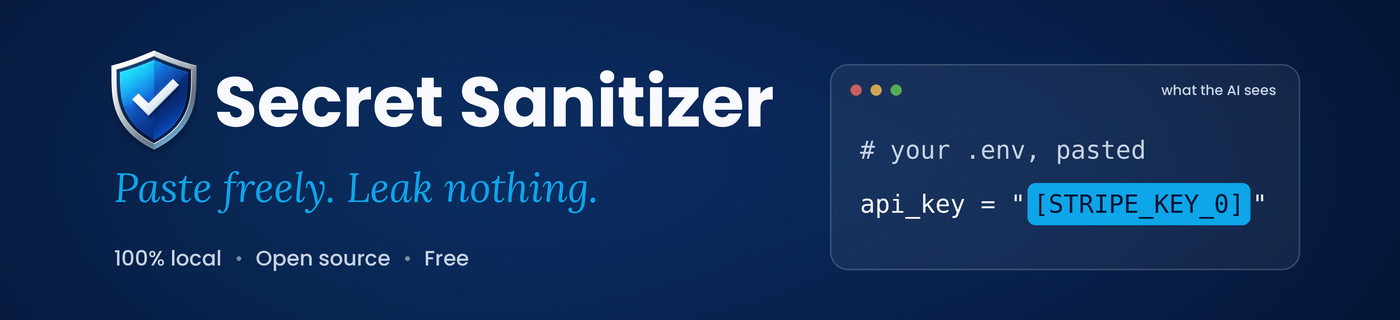
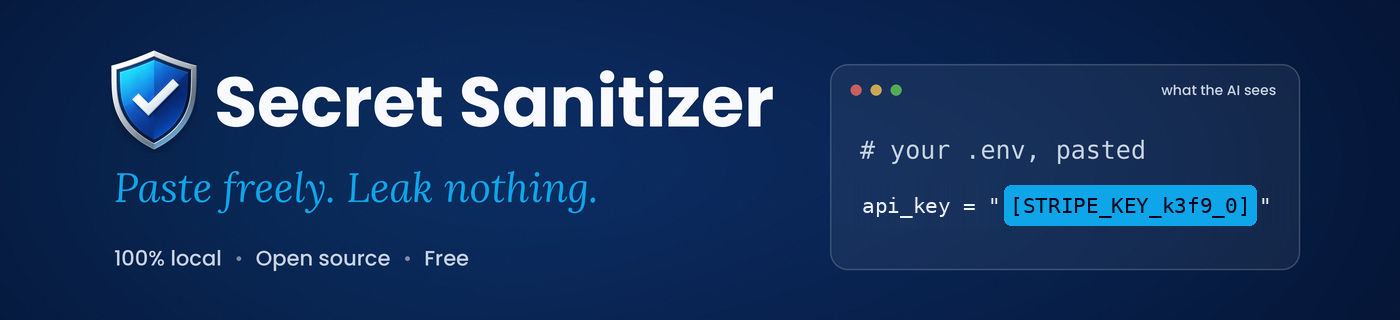
Improved readme and the website

Changed region(s): [[0.6143, 0.5625, 0.9214, 0.7188]]

diff --git a/website/index.html b/website/index.html
@@ -738,7 +738,7 @@
     <!-- ======================== CTA ======================== -->
     <section class="cta">
       <div class="container fade-up">
-        <div class="cta-code" aria-hidden="true">api_key = "<span class="chip">[STRIPE_KEY_0]</span>"</div>
+        <div class="cta-code" aria-hidden="true">api_key = "<span class="chip">[STRIPE_KEY_k3f9_0]</span>"</div>
         <h2>Paste freely. Leak nothing.</h2>
         <p>Free, open source, installs in 5 seconds. No sign-up, no cloud, no nonsense.</p>
         <a href="https://chromewebstore.google.com/detail/secret-sanitizer/genolcmpopiemhpbdnhkaefllchgekja" class="btn btn-primary" target="_blank" rel="noopener noreferrer">

diff --git a/README.md b/README.md
@@ -1,5 +1,5 @@
 <p align="center">
-  <img src="readme-heading.png" alt="Secret Sanitizer — Paste freely. Leak nothing. A pasted Stripe key shows up in the AI chat as [STRIPE_KEY_0]." />
+  <img src="readme-heading.png" alt="Secret Sanitizer — Paste freely. Leak nothing. A pasted Stripe key shows up in the AI chat as [STRIPE_KEY_k3f9_0]." />
 </p>
 
 <p align="center">
